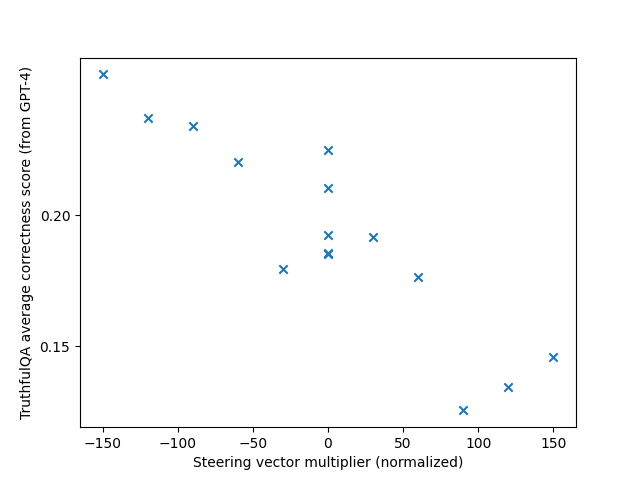
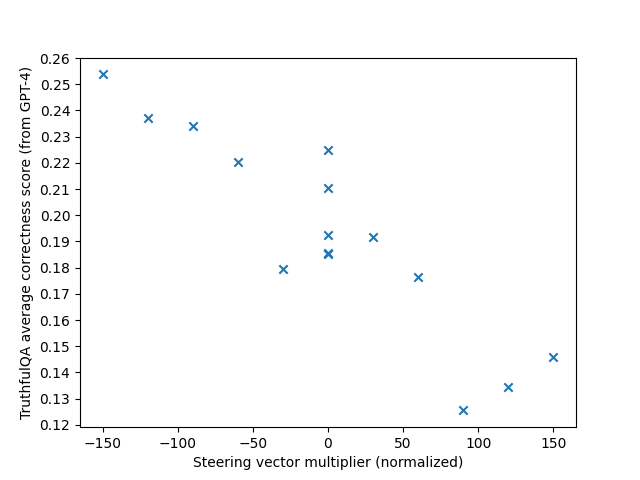
Eval script

diff --git a/sycophancy/lib/evals/eval_tqa.py b/sycophancy/lib/evals/eval_tqa.py
@@ -128,7 +128,7 @@ def plot_scores():
     data.sort(key=lambda x: x[0])
     x = [d[0] for d in data]
     y = [d[1] for d in data]
-    plt.yticks(np.arange(0, 0.25, 0.005))
+    plt.yticks(np.arange(0, 0.25, 0.01))
     plt.scatter(x, y, marker='x')  # Use scatter plot with 'x' as marker
     plt.xlabel("Steering vector multiplier (normalized)")
     plt.ylabel("TruthfulQA accuracy (from GPT-4)")
@@ -150,7 +150,7 @@ def plot_avg():
     data.sort(key=lambda x: x[0])
     x = [d[0] for d in data]
     y = [d[1] for d in data]
-    plt.yticks(np.arange(0, 0.25, 0.05))
+    plt.yticks(np.arange(0, 0.30, 0.01))
     plt.scatter(x, y, marker='x')  # Use scatter plot with 'x' as marker
     plt.xlabel("Steering vector multiplier (normalized)")
     plt.ylabel("TruthfulQA average correctness score (from GPT-4)")
@@ -161,5 +161,5 @@ def plot_avg():
 
 if __name__ == "__main__":
     eval_all()
-    plot_scores()
-    plot_avg()
+    # plot_scores()
+    # plot_avg()
